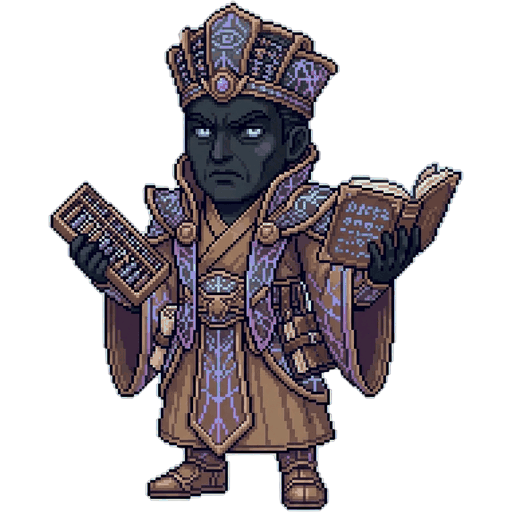
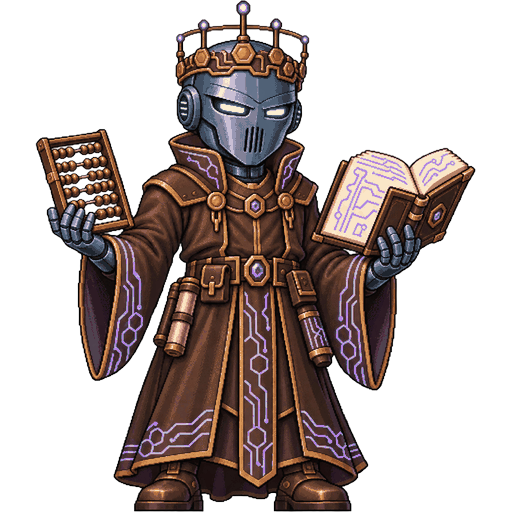
Add twelve event character sprites

diff --git a/BACKLOG.md b/BACKLOG.md
@@ -4,6 +4,8 @@
 
 ## ทำในรอบนี้
 
+- [x] อีเวนต์โซน 1 ครบลำดับ: วิญญาณแหกคุกหลังคดี 2 → ปีศาจฝ่าชายแดน 3 ระลอกหลังคดี 5 → เทวดามาทดสอบหลังคดี 8 → บอสพี่ชายหลังคดี 10; เซฟเก่าที่เคยไปถึงบอสยังเล่นต่อได้
+- [x] ภาพอีเวนต์ 12 ชิ้นตามพรอมป์ของ Mind เตรียมเป็นสไปรท์โปร่งใส 512×512 แล้ว; ภาพบอสโซน 4 ใหม่ใช้กับบอสในเกมแล้ว
 - [x] ปิดการลงทัณฑ์เอง: เอาปุ่มบนแผนที่และในสถานีออก ไม่ให้เลือกยมบาทเป็นผู้คุมรายใหม่; เซฟเก่าที่กำลังคุมเองยังเดินงานเดิมให้จบได้
 - [x] ปรับพ่อค้านรกบนแผนที่ให้สูงใกล้เคียงยมทูต (ภาพต้นฉบับมีขอบโปร่งใส จึงต้องวาดสูงขึ้น)
 - [x] หลังรับทัณฑ์ครบ ส่งเข้าตะราง และบันทึกสถานะลงเซฟ
@@ -12,6 +14,7 @@
 
 ## งานถัดไป
 
+- [ ] นำภาพอีเวนต์ของโซน 2–4 ไปใช้เมื่อทำระบบอีเวนต์เฉพาะโซนเหล่านั้น (ขณะนี้เตรียมภาพไว้แล้ว แต่ยังไม่ได้เขียนอีเวนต์)
 - [ ] พักไว้: มินิเกมเฉพาะสถานที่ (กระทะทองแดง, ป่าดาบ, โลกันตนรก, ดงต้นงิ้ว, ลานตรากตรำ, หอส่องกรรม, ศาลาน้ำชา) รวมการขยายการตรวจรายชื่อที่ตะรางและตรวจกรรมที่ประตูสวรรค์
 - [ ] กำลังทำชุด 18C: แสดงการเดินของวิญญาณจากสถานีทัณฑ์ไปตะราง และจากตะรางไปประตูสวรรค์บนฉาก
 - [ ] ตรวจหน้าสอบสวนและหน้าต่อสู้เทียบภาพตัวอย่าง i1–i13 บนอุปกรณ์จริง โดยเฉพาะการเปิดตัวเลือก การเลื่อนไปทางขวา ปุ่มออกหมาย ทีมช่วยสู้ และแถบคูลดาวน์
